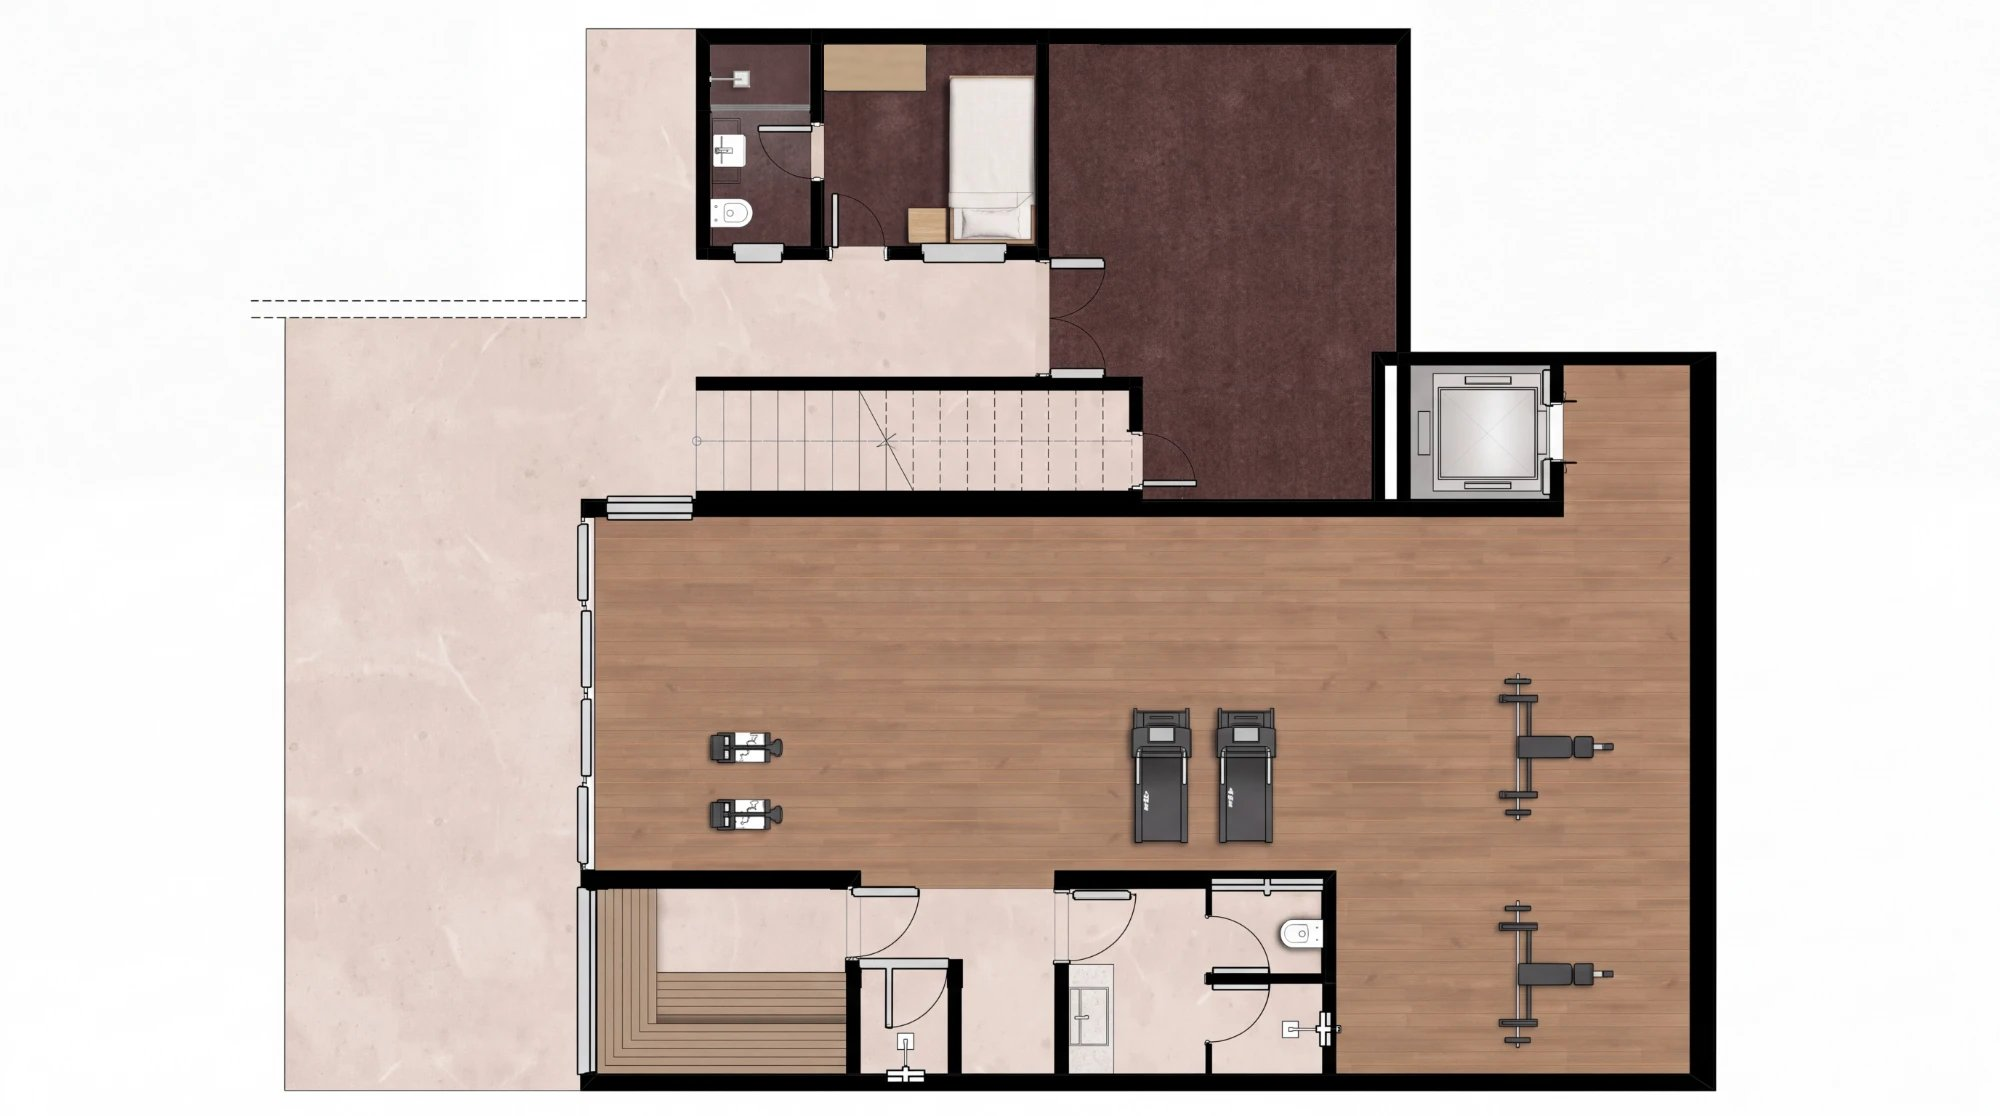
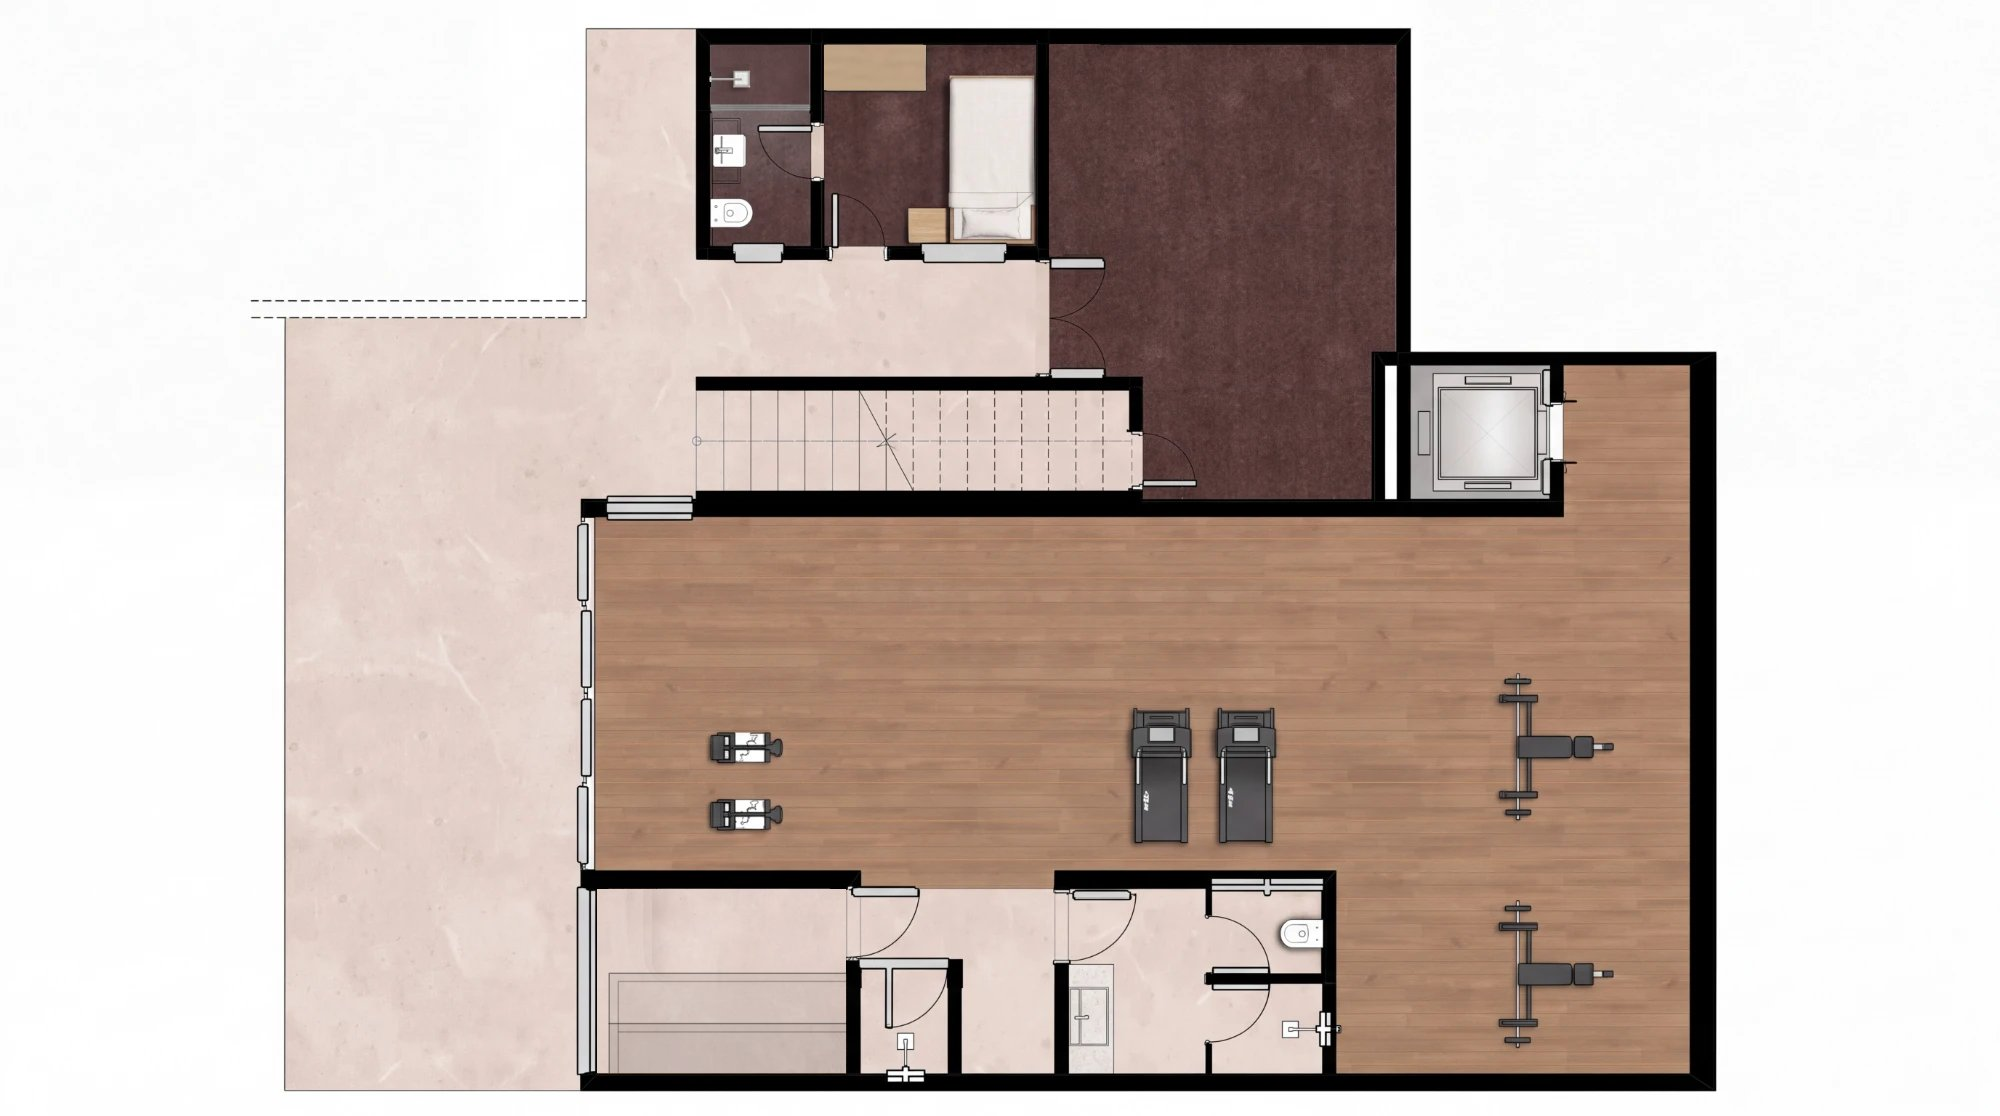
Casa D Subsolo: retoques 6 e 7, banco da sauna em Bege Bahia sem o braço em L
Claude-Session: https://claude.ai/code/session_01Mm19WX3KoLN1nXMDF5Ay3F

Changed region(s): [[0.279, 0.7921, 0.434, 0.9749]]

diff --git a/projetos/POE642_CasaA/scripts/retoque_subsolo_casad.py b/projetos/POE642_CasaA/scripts/retoque_subsolo_casad.py
@@ -19,6 +19,10 @@ Itens (o mapa está em POE642_CasaD/renders/POE642_CasaD_PH_Subsolo_v1_erros.jpg
 5. DCE 1: o armário até o teto (o da linha diagonal) saiu quase branco; vira a madeira areia dos
    armários até o teto do Térreo, com o veio no comprido, sem a diagonal e sem sombra. A mancha
    clara do piso junto ao criado-mudo sai, como as do depósito.
+6. Sauna: o braço do banco em L que o motor subiu junto ao vidro sai; ali volta o piso de Bege Bahia.
+7. Sauna: o banco, que o motor fez em madeira, fica em Bege Bahia (pedido do usuário), em dois tons
+   mais escuros, como na base: o degrau da frente (0,93) e o assento junto à parede (0,88), com as
+   linhas do PDF (bordas e a linha dupla de cada nível, layer ARQ_ELEMENTOS FIXOS).
 
 Uso (da pasta projetos/):
   python3 POE642_CasaA/scripts/retoque_subsolo_casad.py POE642_CasaD/renders/POE642_CasaD_PH_Subsolo_v1_render.webp \
@@ -130,6 +134,23 @@ ARMARIO_DCE = {
     "mancha": (921, 192, 9, 8),            # mancha clara no granito, acima do criado-mudo
     "janela_mancha": (906, 178, 945, 204),
     "fontes_piso": [(840, 110, 900, 180), (840, 200, 880, 240)],
+}
+
+# sauna (px do render, da geometria do PDF): o miolo é refeito inteiro em Bege Bahia tecido do pátio
+# (o mesmo tom do piso da sauna no render), na luz do piso que já era Bege Bahia
+SAUNA = {
+    "miolo": (597, 889, 846, 1073),        # entre o caixilho do vidro, as paredes e a linha da porta
+    "fontes": [(330, 430, 450, 620), (450, 430, 560, 620), (330, 640, 450, 830), (450, 640, 560, 830)],
+    "luz": (660, 890, 845, 970),           # o piso que já era Bege Bahia
+    "banco": (609.1, 973.3, 846.9, 1073.6),
+    "degrau_ate": 1023.5,                  # o degrau da frente vai até aqui; daí para baixo, o assento
+    "tons": (0.93, 0.88),
+    # (pontos, escurecimento): bordas de cada nível e a linha dupla de dentro (ARQ_ELEMENTOS FIXOS)
+    "linhas": [([(846.9, 973.3), (609.1, 973.3), (609.1, 1073.6)], 0.62),
+               ([(609.1, 1023.5), (846.9, 1023.5)], 0.62),
+               ([(846.9, 981.4), (618.3, 981.4), (618.3, 1073.7)], 0.78),
+               ([(618.3, 1031.9), (846.9, 1031.9)], 0.78)],
+    "largura": 1.2,
 }
 
 
@@ -295,6 +316,32 @@ def armario_dce(out):
     return out
 
 
+def sauna(out):
+    q = SAUNA
+    x0, y0, x1, y1 = q["miolo"]
+    h, w = y1 - y0, x1 - x0
+    reg = out[y0:y1, x0:x1].astype(np.float32)
+    amostra = np.zeros((h, w), bool)
+    lx0, ly0, lx1, ly1 = q["luz"]
+    amostra[ly0 - y0:ly1 - y0, lx0 - x0:lx1 - x0] = reg[ly0 - y0:ly1 - y0, lx0 - x0:lx1 - x0].mean(axis=2) > 170
+    luz = interpolar(reg, amostra, 6.0)
+    novo = textura(out, q["fontes"], h, w, p=24) * luz
+    bx0, by0, bx1, by1 = q["banco"]
+    yy, xx = np.mgrid[y0:y1, x0:x1] + 0.5
+    no_banco = (xx >= bx0) & (xx <= bx1) & (yy >= by0)
+    novo[no_banco & (yy < q["degrau_ate"])] *= q["tons"][0]
+    novo[no_banco & (yy >= q["degrau_ate"])] *= q["tons"][1]
+    for pts, k in q["linhas"]:
+        m = np.zeros((h * SS, w * SS), np.uint8)
+        p = np.int32([[round((px - x0) * SS), round((py - y0) * SS)] for px, py in pts])
+        cv2.polylines(m, [p], False, 255, max(1, int(round(q["largura"] * SS))), cv2.LINE_AA)
+        a = cv2.resize(m.astype(np.float32) / 255, (w, h), interpolation=cv2.INTER_AREA)[..., None]
+        novo = novo * (1 - a) + novo * k * a
+    out[y0:y1, x0:x1] = np.clip(novo, 0, 255).astype(np.uint8)
+    print("    sauna: braço do L fora; banco em Bege Bahia em dois tons, com as linhas do PDF")
+    return out
+
+
 def main():
     ap = argparse.ArgumentParser(description=__doc__, formatter_class=argparse.RawDescriptionHelpFormatter)
     ap.add_argument("render", type=Path)
@@ -314,6 +361,8 @@ def main():
     out = trocar_chuveiro(out, CHUVEIRO_WC)
     print("[5] DCE 1: armário até o teto")
     out = armario_dce(out)
+    print("[6, 7] sauna: braço do banco em L e banco em Bege Bahia")
+    out = sauna(out)
 
     args.saida.mkdir(parents=True, exist_ok=True)
     cv2.imwrite(str(args.saida / f"{args.nome}.png"), out)

diff --git a/projetos/POE642_HANDOFF_SESSAO_LOCAL.md b/projetos/POE642_HANDOFF_SESSAO_LOCAL.md
@@ -433,3 +433,6 @@ python texturizar_base.py Subsolo ../../POE642_CasaC/bases/POE642_CasaC_BASE_Sub
   3. WC DCE: o piso da área do chuveiro (acima da divisória), mais claro e acinzentado, voltou ao tom do granito do resto do banheiro (ganho por canal; a textura do render fica).
   4. WC DCE: o símbolo do CAD virou o chuveiro do Térreo (placa aprovada da Casa A, braço cromado até a parede da esquerda e canopla), na geometria do PDF levada ao render pela cadeia da base (`pdf_cadeia`); sombra e brilho na escala do render (~2,73 x a do Térreo).
   5. DCE 1: o armário até o teto (o da diagonal), quase branco no render, virou a madeira areia dos armários até o teto do Térreo retocado (tecida por quilting, ampliada 2,73 x, o mesmo aspecto que ela tem na prancha), com o veio no comprido, sem a diagonal; os contornos escuros do render ficam. A mancha clara do piso acima do criado-mudo saiu.
+  6. sauna: o braço do banco em L que o motor subiu junto ao vidro saiu; ali voltou o piso de Bege Bahia.
+  7. sauna: o banco de madeira do motor ficou em Bege Bahia (pedido do usuário), em dois tons como na base (degrau da frente 0,93, assento junto à parede 0,88), com as linhas do PDF (bordas e linha dupla de cada nível, ARQ_ELEMENTOS FIXOS). O miolo da sauna foi refeito em Bege Bahia tecido do pátio, na luz do piso que já era Bege Bahia.
+
